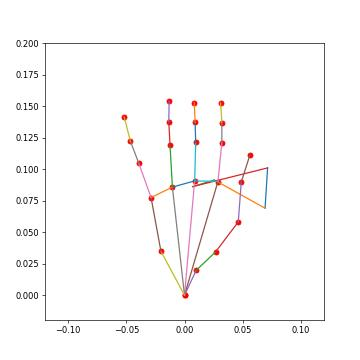
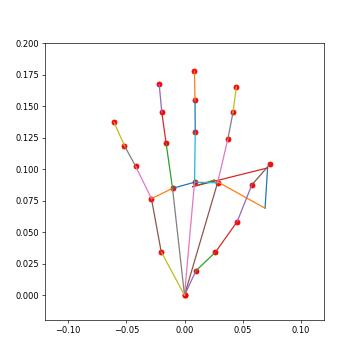
latest

diff --git a/openteach/components/detector/keypoint_transform_620.py b/openteach/components/detector/keypoint_transform_620.py
@@ -24,7 +24,7 @@ class TransformHandPositionCoords(Component):
 
         # Moving average queue
         self.moving_average_limit = moving_average_limit
-        self.coord_moving_average_queue, self.frame_moving_average_queue_left, self.frame_moving_average_queue_right = [], [], []
+        self.coord_moving_average_queue, self.frame_moving_average_queue = [], []
 
     def _get_hand_coords_left(self):
 
@@ -68,14 +68,14 @@ class TransformHandPositionCoords(Component):
         return [cross_product, palm_direction, palm_normal]
 
     # Create a coordinate frame for the arm
-    def _get_hand_dir_frame_right(self, origin_coord, index_knuckle_coord, pinky_knuckle_coord):
-        # Calculating the transform in Right Handed system itself as unity being right hand coordinate system. This transform sends the frame in the form of vectors in Right Hand coordinate frame. Since we use only the relative transform between the hand movements the coordinate system does not matter. 
+    def _get_hand_dir_frame(self, origin_coord, index_knuckle_coord, pinky_knuckle_coord):
+        # Calculating the transform in Left Handed system itself as unity being left hand coordinate system. This transform sends the frame in the form of vectors in Left Hand coordinate frame. Since we use only the relative transform between the hand movements the coordinate system does not matter. 
         # We find the relative transformation between the hand moving frames and use that to find the transformation in the robot frame and this does not depend on the coordinate system
         
-        palm_normal = normalize_vector(np.cross(index_knuckle_coord, pinky_knuckle_coord))   # Unity space - Y
-        palm_direction = normalize_vector(index_knuckle_coord + pinky_knuckle_coord)         # Unity space - Z
-        cross_product = normalize_vector(index_knuckle_coord - pinky_knuckle_coord)              # Unity space - X
-        
+        palm_normal = normalize_vector(np.cross(pinky_knuckle_coord,index_knuckle_coord))   # Unity space Y  
+        palm_direction = normalize_vector(pinky_knuckle_coord+index_knuckle_coord)         # Unity space Z            
+        cross_product = normalize_vector(pinky_knuckle_coord-index_knuckle_coord)         # Unity space X 
+
         return [origin_coord, cross_product, palm_normal, palm_direction]
 
     # Create a coordinate frame for the arm
@@ -126,7 +126,7 @@ class TransformHandPositionCoords(Component):
         
         transformed_hand_coords = (rotation_matrix @ translated_coords.T).T # Find the transformed hand coordinates in the robot frame
         # Find the transformed arm frame using knuckle coords
-        hand_dir_frame = self._get_hand_dir_frame_right(
+        hand_dir_frame = self._get_hand_dir_frame(
             hand_coords[0],
             translated_coords[self.knuckle_points[0]], 
             translated_coords[self.knuckle_points[1]]
@@ -145,9 +145,16 @@ class TransformHandPositionCoords(Component):
                 data_type, hand_coords_right = self._get_hand_coords_right()
 
                 # Find the transformed hand coordinates and the transformed hand local frame
-                _, translated_hand_coord_frame_left = self.transform_keypoints_left(hand_coords_left)
+                transformed_hand_coords_left, translated_hand_coord_frame_left = self.transform_keypoints_left(hand_coords_left)
                 transformed_hand_coords_right, translated_hand_coord_frame_right = self.transform_keypoints_right(hand_coords_right)
  
+                
+                # transformed_hand_coords=np.stack((transformed_hand_coords_right[0], transformed_hand_coords_left[1:]),axis=0)
+                #translated_hand_coord_frame=np.stack((translated_hand_coord_frame_right[0], translated_hand_coord_frame_left[1:]),axis=0)
+                # print(transformed_hand_coords_right[0].shape)
+                # print(transformed_hand_coords_right[1:].shape)
+                #translated_hand_coord_frame=np.stack((translated_hand_coord_frame_right[0], translated_hand_coord_frame_left[1:]),axis=0)
+                #print(translated_hand_coord_frame.shape)
                 
                 # Passing the transformed coords into a moving average to filter the noise. The higher the moving average limit, the more the noise is filtered. But values higher than 50 might make the keypoint less responsive.
                 self.averaged_hand_coords = moving_average(
@@ -155,27 +162,26 @@ class TransformHandPositionCoords(Component):
                     self.coord_moving_average_queue, 
                     self.moving_average_limit
                 )
-                # print(translated_hand_coord_frame_left.shape)
+
                 # Passing the transformed frame into a moving average to filter the noise. The higher the moving average limit, the more the noise is filtered. But the
                 averaged_hand_frame_left = moving_average(
                     translated_hand_coord_frame_left, 
-                    self.frame_moving_average_queue_left, 
+                    self.frame_moving_average_queue, 
                     self.moving_average_limit
                 )
+                
                 averaged_hand_frame_right = moving_average(
                     translated_hand_coord_frame_right, 
-                    self.frame_moving_average_queue_right, 
+                    self.frame_moving_average_queue, 
                     self.moving_average_limit
                 )
-                # print("before_moving", transformed_hand_coords_right.shape)
-                # print("averaged_hand_frame_left", averaged_hand_frame_left.shape)
-                # print("average_hand_frame_right", averaged_hand_frame_right.shape)
                 # Publish the transformed hand coordinates
                 self.transformed_keypoint_publisher.pub_keypoints(self.averaged_hand_coords, 'transformed_hand_coords')
                 # Publish the transformed hand frame
                 if data_type == 'absolute':
-                    # self.averaged_hand_frame=np.concatenate((averaged_hand_frame_right[0].reshape(1,-1), averaged_hand_frame_left[1:]),axis=0)
-                    self.averaged_hand_frame = np.vstack([averaged_hand_frame_right[0], averaged_hand_frame_left[1:]])
+                    self.averaged_hand_frame=np.concatenate((averaged_hand_frame_right[0].reshape(1,-1), averaged_hand_frame_left[1:]),axis=0)
+                    #self.averaged_hand_frame = (averaged_hand_frame_left + averaged_hand_frame_right)/2
+                    #print(self.averaged_hand_fr
                     self.transformed_keypoint_publisher.pub_keypoints(self.averaged_hand_frame, 'transformed_hand_frame')
                     
                     
